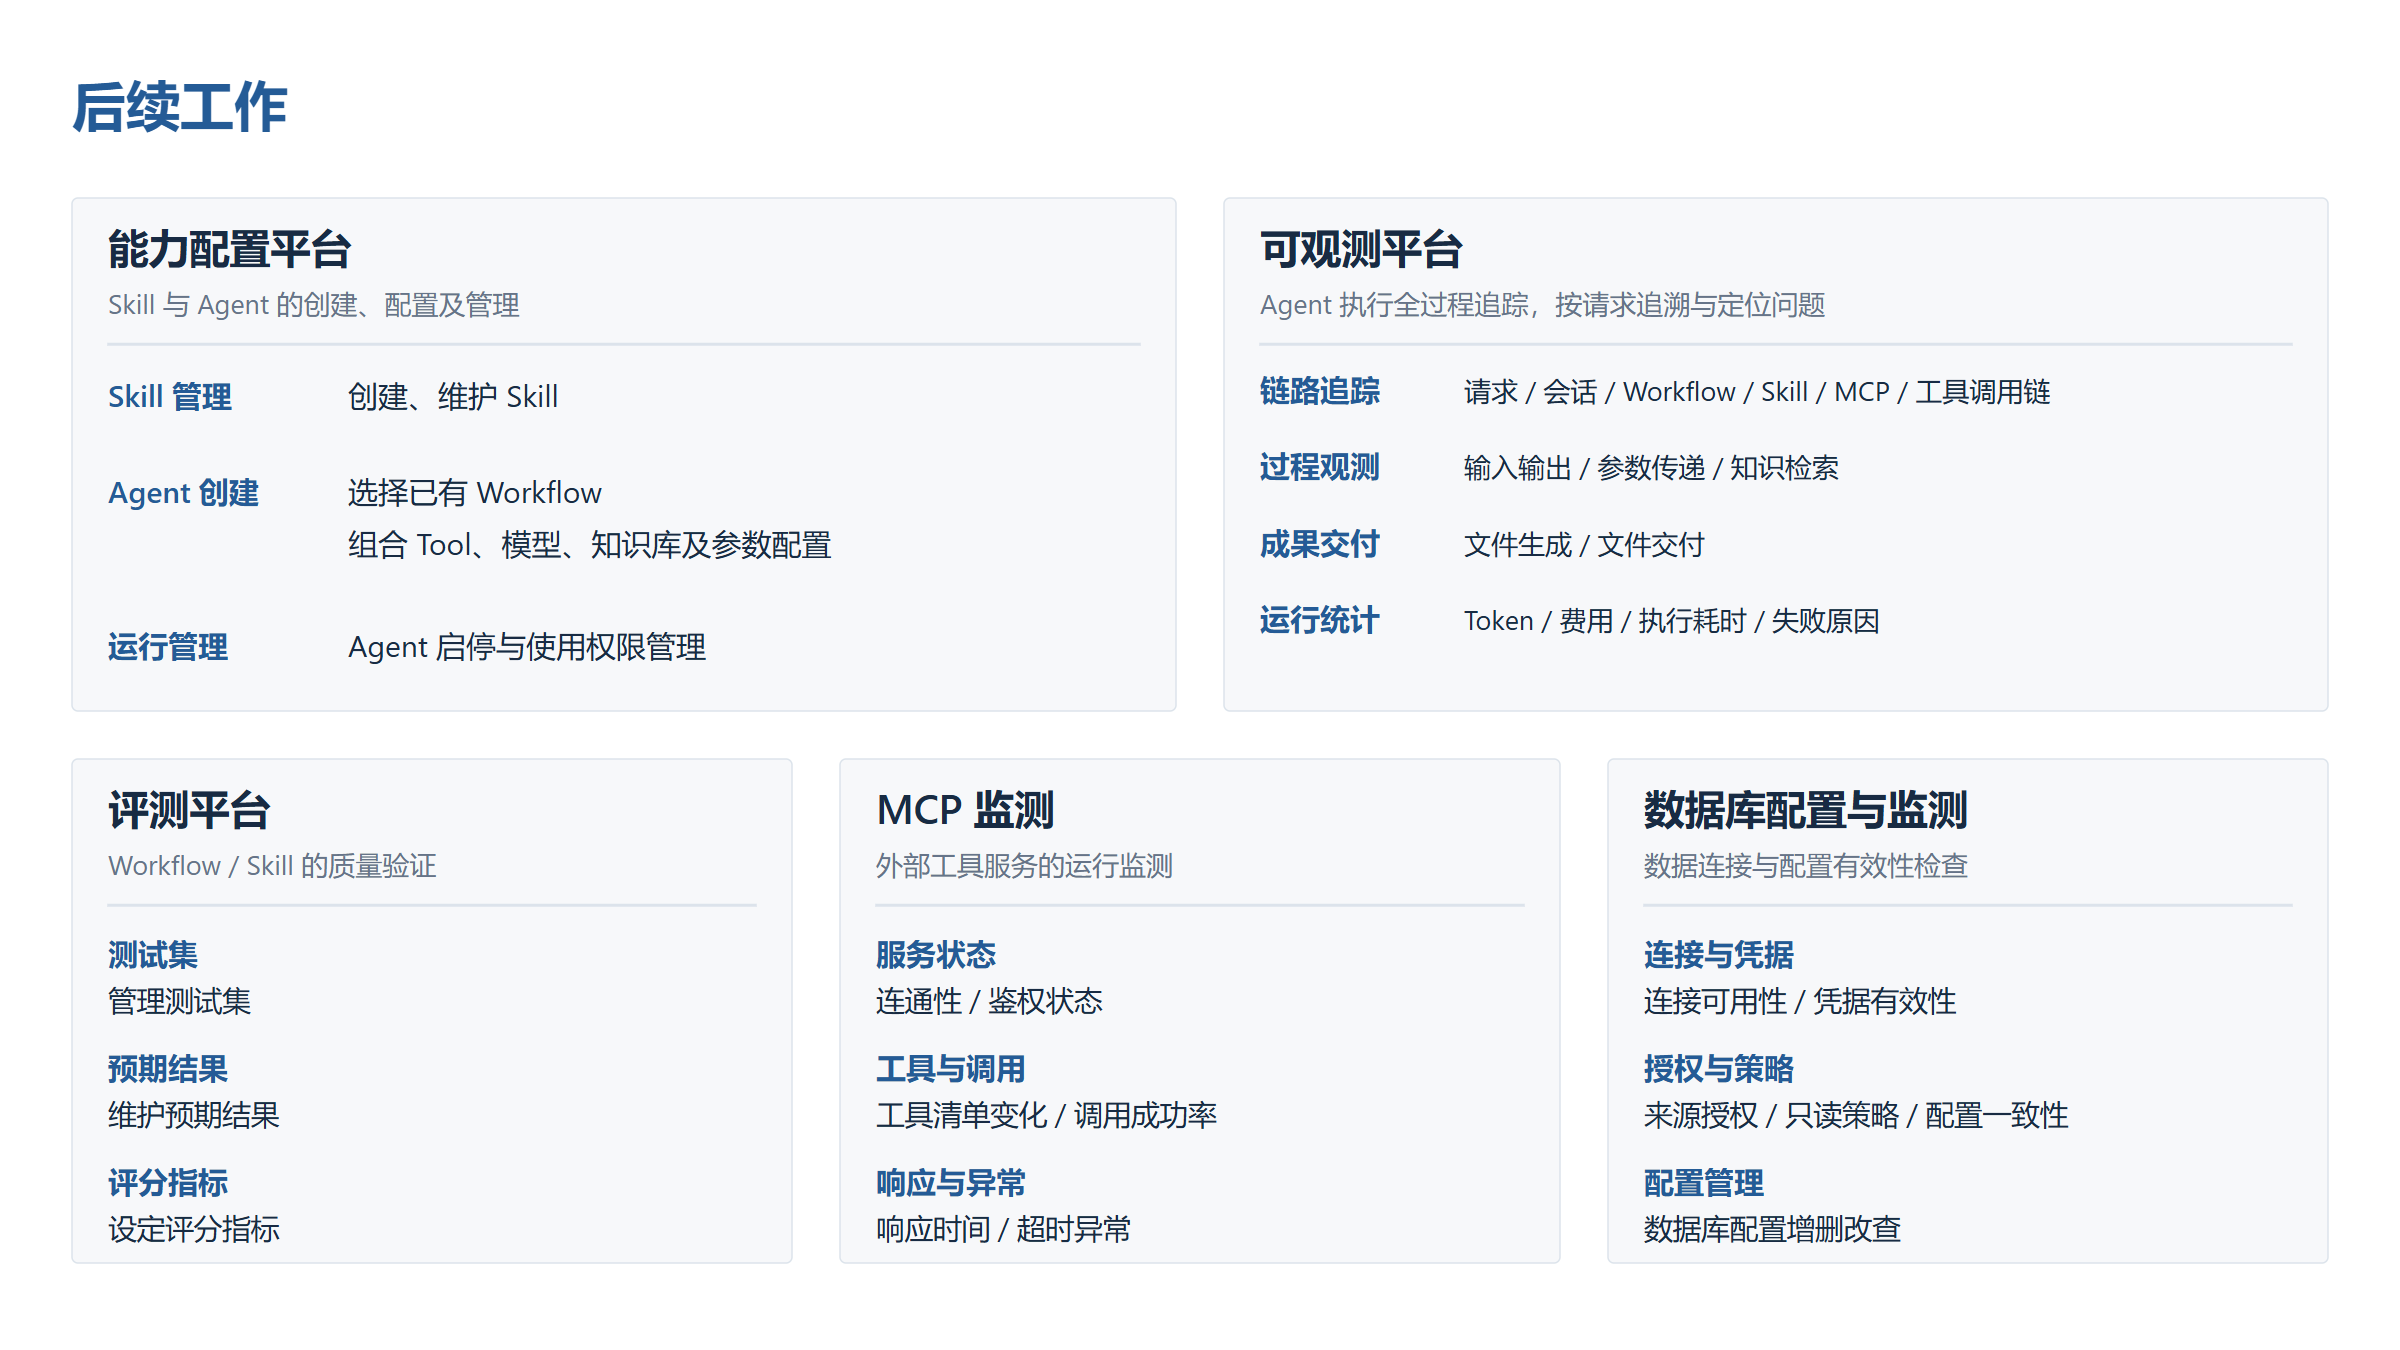
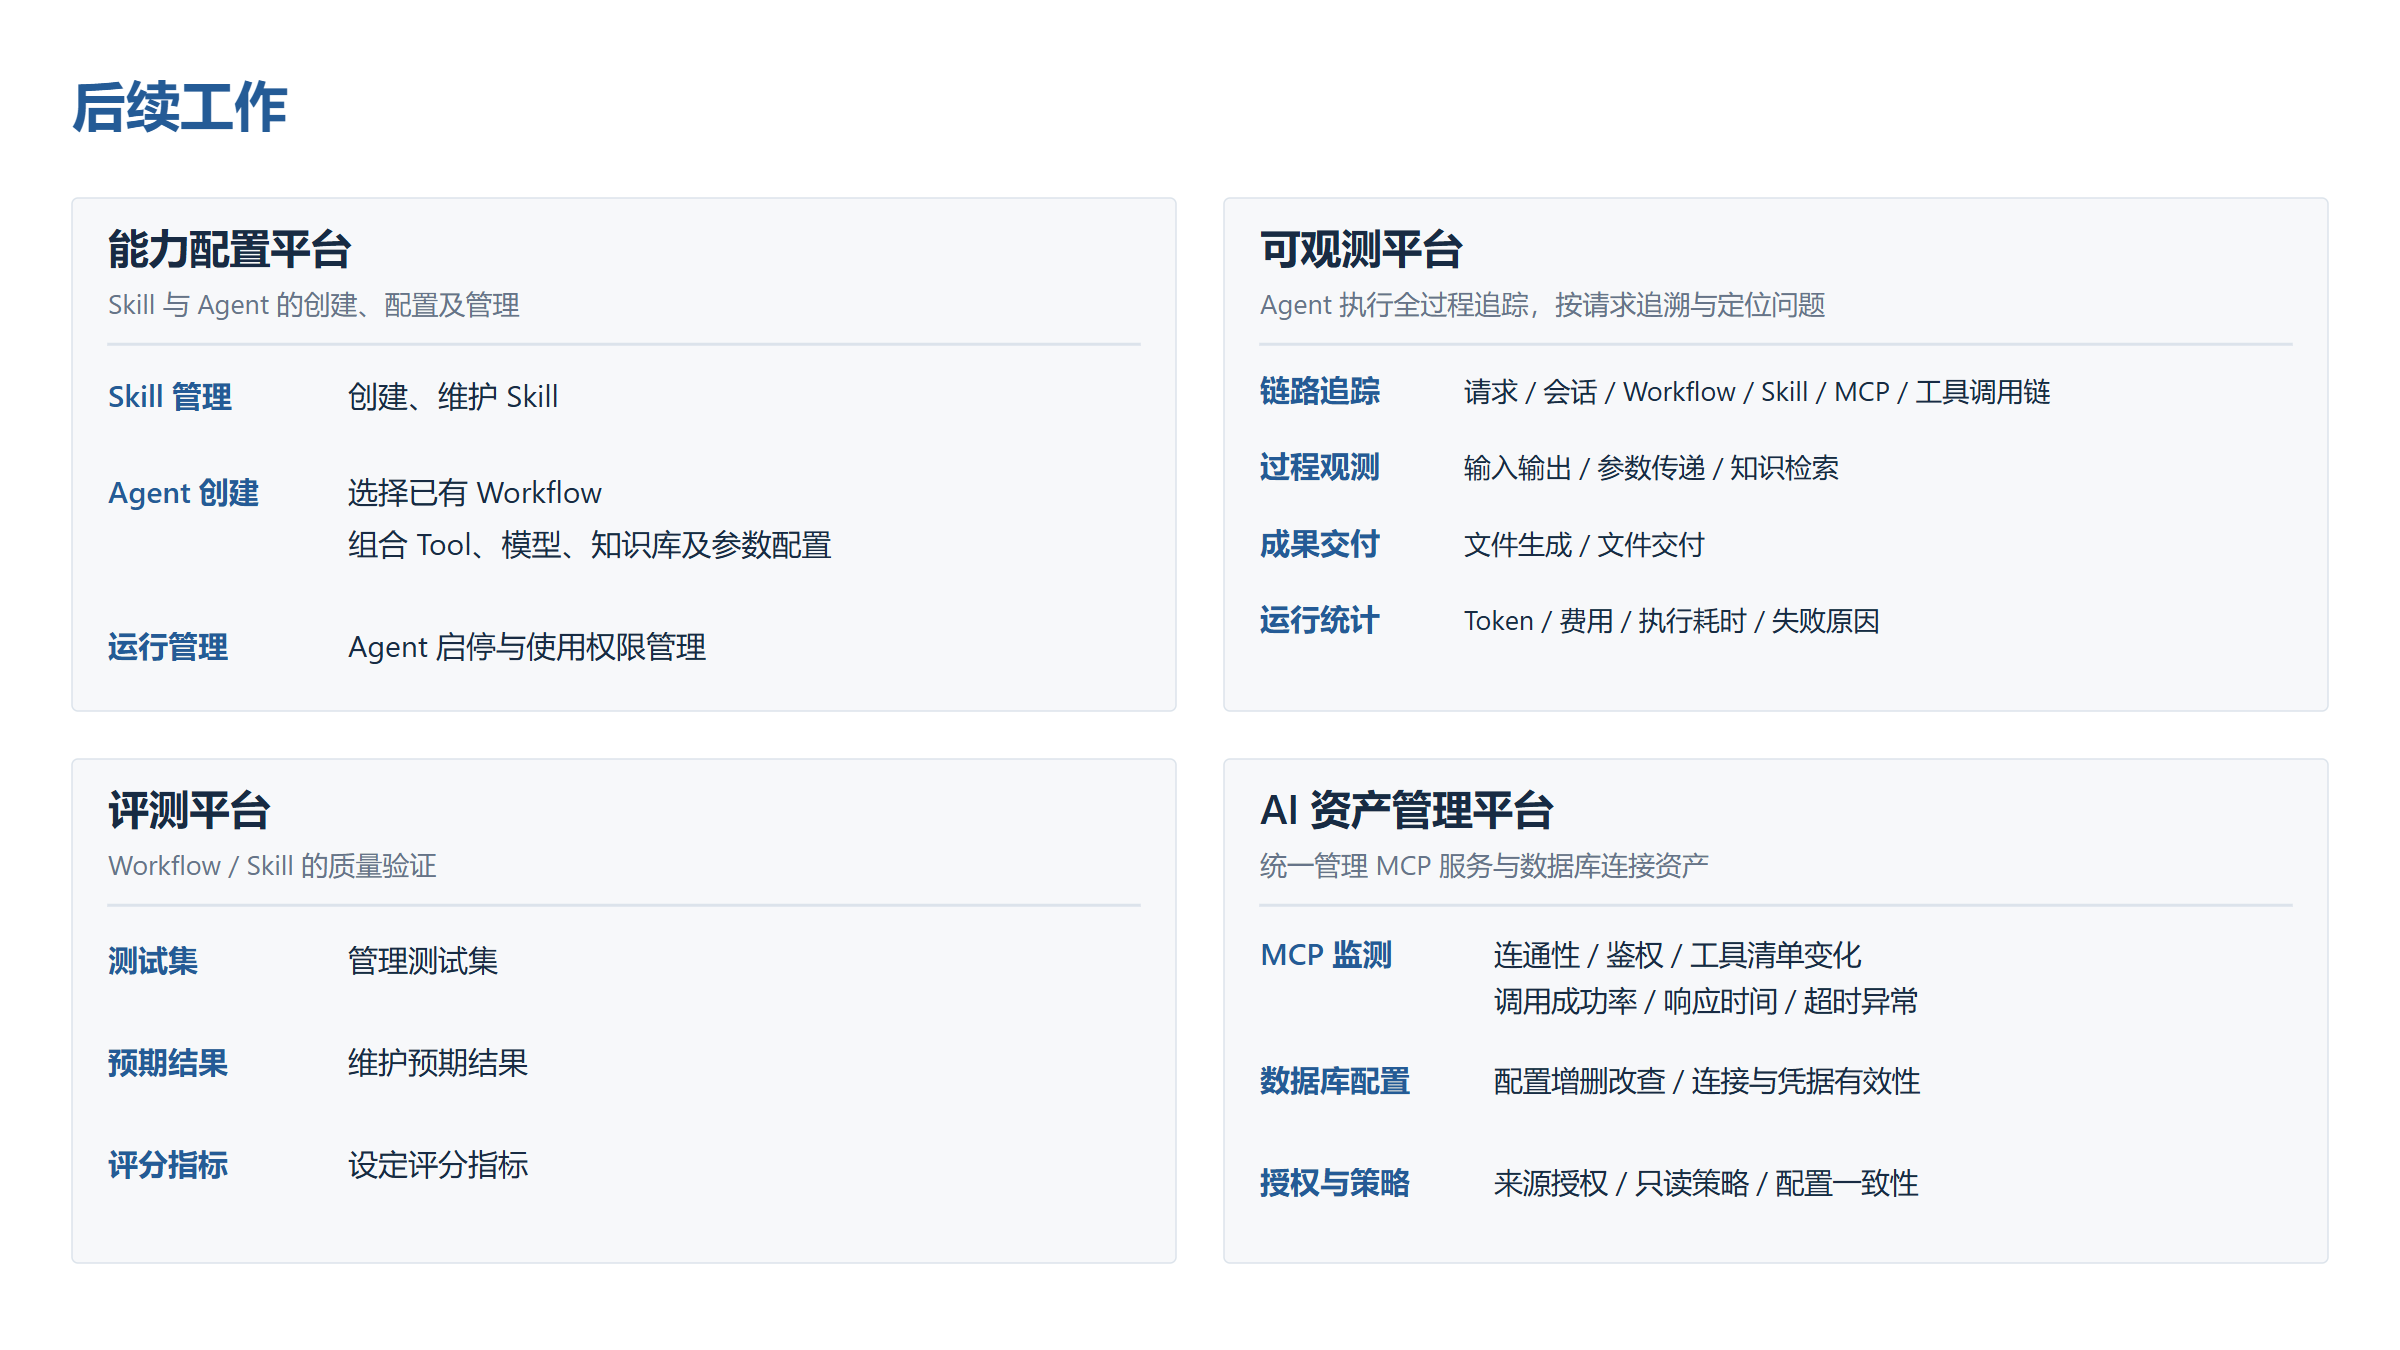
合并 MCP 与数据库图稿为 AI 资产管理平台
将后续工作总览调整为四个平台，合并独立介绍页和导航，保留 MCP 监测与数据库配置管理内容；删除已替换的旧图稿。
验证：SVG 边界与 PNG 渲染通过，目视检查、真实 HTTP 总览和合并页、导航及 hash 初始选择通过。

工程要求检查：
REQ-001 | 不适用 | 本次仅静态图稿归并，未改变业务 Token 透传或凭据注入 | 不涉及真实链路验收。
REQ-002 | 不适用 | 本次仅管理平台介绍图，未改变 Capability 入口或内部执行资产边界 | 图示不代表运行时功能或授权验收。

diff --git a/doc/diagrams/index.html b/doc/diagrams/index.html
@@ -26,8 +26,7 @@
       <button id="tab-capability" role="tab" aria-selected="false" aria-controls="panel-capability" data-name="capability-platform">能力配置</button>
       <button id="tab-observability" role="tab" aria-selected="false" aria-controls="panel-observability" data-name="observability-platform">可观测</button>
       <button id="tab-evaluation" role="tab" aria-selected="false" aria-controls="panel-evaluation" data-name="evaluation-platform">评测</button>
-      <button id="tab-mcp" role="tab" aria-selected="false" aria-controls="panel-mcp" data-name="mcp-monitoring">MCP 监测</button>
-      <button id="tab-database" role="tab" aria-selected="false" aria-controls="panel-database" data-name="database-monitoring">数据库配置与监测</button>
+      <button id="tab-assets" role="tab" aria-selected="false" aria-controls="panel-assets" data-name="ai-asset-platform">AI 资产管理</button>
     </nav>
     <div class="actions"><button id="zoom" aria-pressed="false">原始尺寸</button><a id="svg-link" href="system-architecture.svg" download>下载 SVG</a><a id="png-link" href="system-architecture.png" download>下载 PNG</a></div>
   </div>
@@ -35,12 +34,11 @@
 <main>
   <section id="panel-system" role="tabpanel" aria-labelledby="tab-system"><figure><img src="system-architecture.svg" alt="Java 控制面、自研 Python Runtime、Claude Agent SDK 分层总览，包含业务能力小块及外部平台连接。"></figure></section>
   <section id="panel-lineage" role="tabpanel" aria-labelledby="tab-lineage" hidden><figure><img src="request-lineage.svg" alt="Java 业务请求经过 Python 会话调度和 SDK 执行，通过 SSE 和文件状态关联回业务消息。"></figure></section>
-  <section id="panel-future" role="tabpanel" aria-labelledby="tab-future" hidden><figure><img src="future-work.svg" alt="后续工作：能力配置平台、可观测平台、评测平台、MCP 监测、数据库配置与监测。"></figure></section>
+  <section id="panel-future" role="tabpanel" aria-labelledby="tab-future" hidden><figure><img src="future-work.svg" alt="后续工作：能力配置平台、可观测平台、评测平台、AI 资产管理平台。"></figure></section>
   <section id="panel-capability" role="tabpanel" aria-labelledby="tab-capability" hidden><figure><img src="capability-platform.svg" alt="能力配置平台：创建和维护 Skill，选择 Workflow 并组合 Tool、模型、知识库和参数创建 Agent，管理启停与使用权限。"></figure></section>
   <section id="panel-observability" role="tabpanel" aria-labelledby="tab-observability" hidden><figure><img src="observability-platform.svg" alt="可观测平台：Agent 全链路、参数、知识检索、文件交付、Token、费用和耗时追踪。"></figure></section>
   <section id="panel-evaluation" role="tabpanel" aria-labelledby="tab-evaluation" hidden><figure><img src="evaluation-platform.svg" alt="评测平台：以测试集、预期结果和评分指标进行 Workflow 与 Skill 质量验证。"></figure></section>
-  <section id="panel-mcp" role="tabpanel" aria-labelledby="tab-mcp" hidden><figure><img src="mcp-monitoring.svg" alt="MCP 监测：服务连通性、鉴权状态、工具清单变化、调用成功率、响应时间与超时异常。"></figure></section>
-  <section id="panel-database" role="tabpanel" aria-labelledby="tab-database" hidden><figure><img src="database-monitoring.svg" alt="数据库配置与监测：配置增删改查，检查连接、凭据、来源授权、只读策略和配置一致性。"></figure></section>
+  <section id="panel-assets" role="tabpanel" aria-labelledby="tab-assets" hidden><figure><img src="ai-asset-platform.svg" alt="AI 资产管理平台：MCP 服务连通性、鉴权、工具清单、调用成功率、响应时间与超时监测；数据库配置增删改查、连接与凭据、来源授权、只读策略与配置一致性检查。"></figure></section>
 </main>
 <script>
   const tabs=[...document.querySelectorAll('[role="tab"]')];
